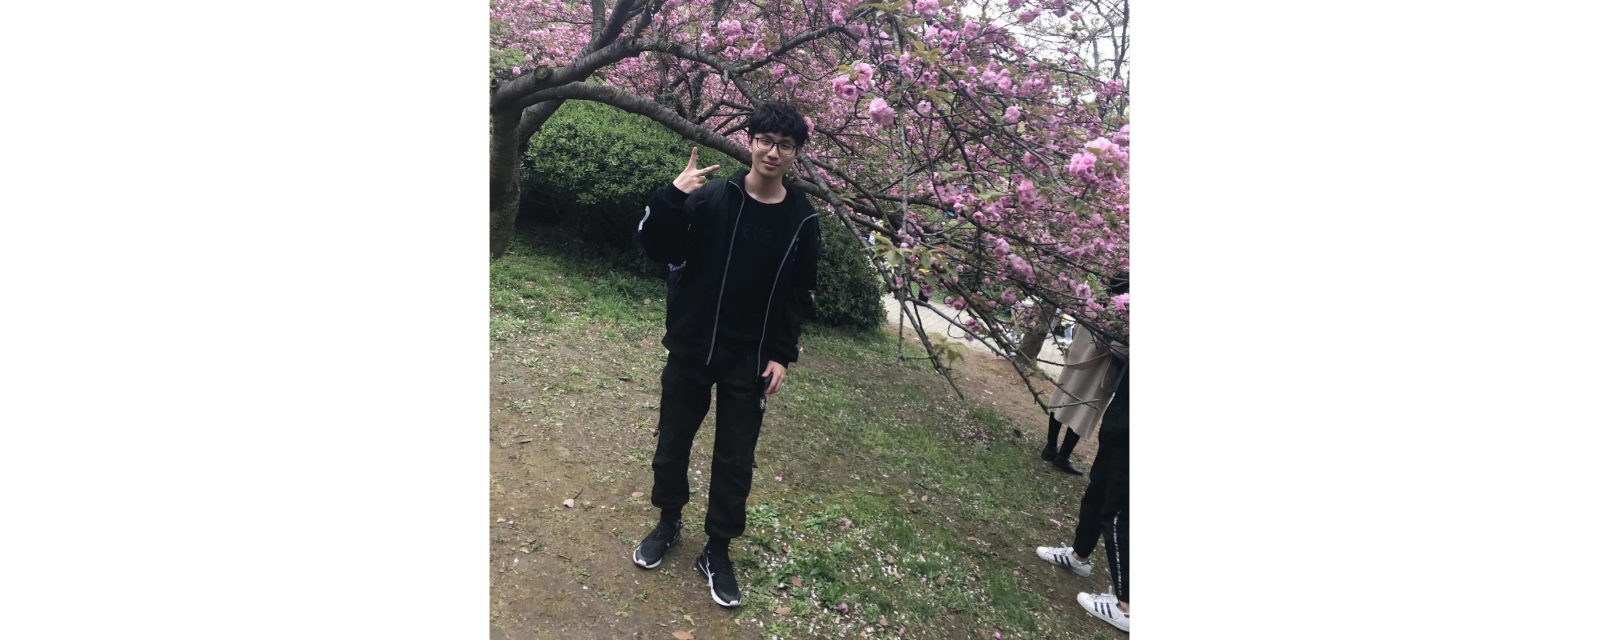
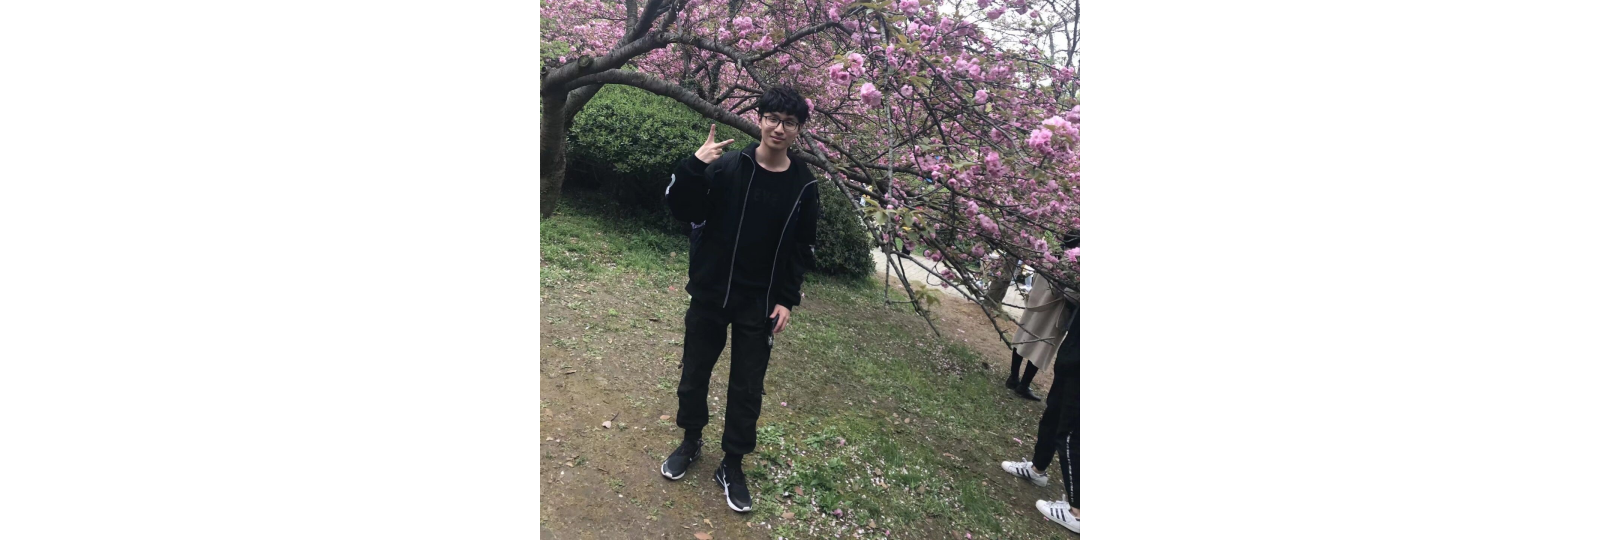
add member

Changed region(s): [[0.2778, 0.0, 0.7099, 1.0]]

diff --git a/members/index.html b/members/index.html
@@ -131,6 +131,8 @@
     <section class="cf ph3 ph5-l pv3 pv4-l f4 tc-l center measure-wide lh-copy mid-gray"><h1 id="主席团">主席团</h1>
 <p><img src="/img/members/zx1.png" alt="zx1"></p>
 <p>个人介绍：18级3班黄炜喆，学生会主席团成员，喜欢做事服务同学，喜欢认识新朋友，希望学生会能越来越好。</p>
+<p><img src="/img/members/zx2.png" alt="zx2"></p>
+<p>个人介绍：20届主席团成员王瑞程，有一个大胆的想法</p>
 <h1 id="部长团">部长团</h1>
 <h2 id="综合办事处">综合办事处</h2>
 <p><img src="/img/members/zb.png" alt="zb"></p>
